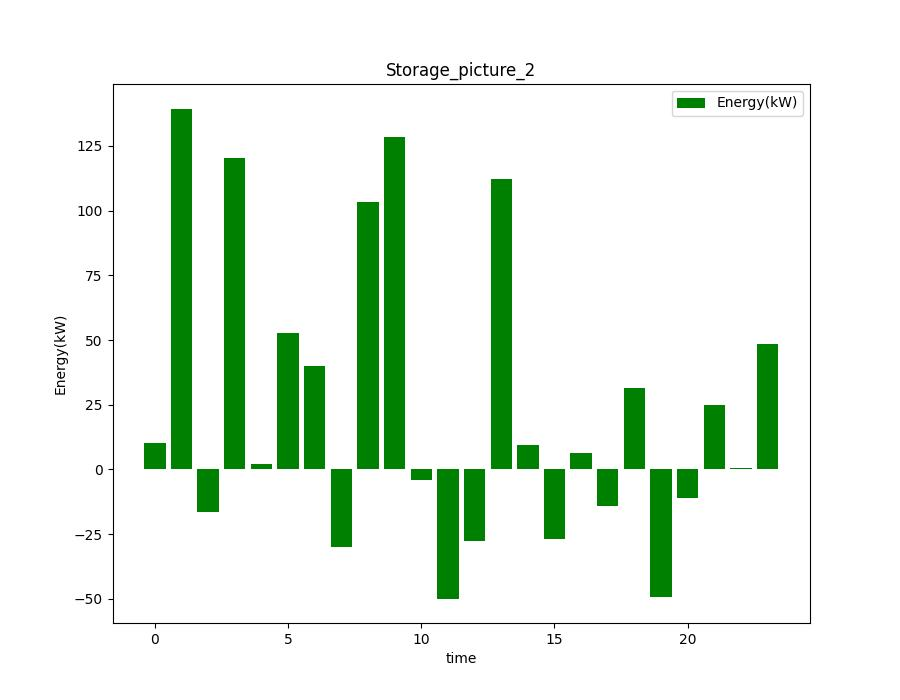
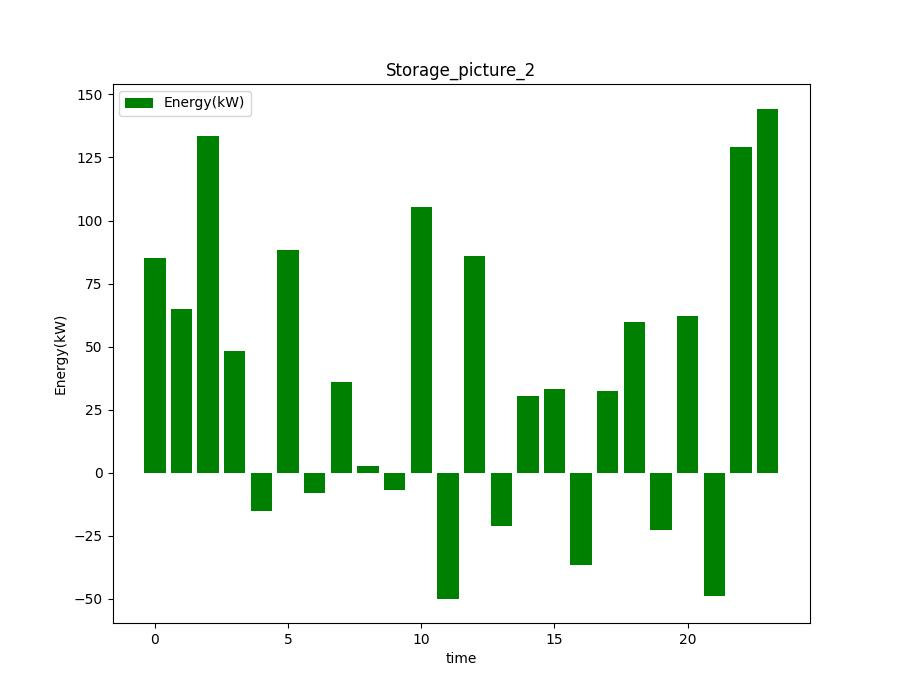
把运算数据的功能放到了云端

diff --git a/Calculation_On_Server/main.py b/Calculation_On_Server/main.py
@@ -1,32 +1,24 @@
 import os
-import sqlite3
 import time
+from datetime import datetime
+
 import numpy as np
 import pandas as pd
-import matplotlib as plt
 import mysql.connector
-
-raletive_paths = "APIs\\"
-
-
-def set_relative_path(path):
-    global raletive_paths
-    raletive_paths = path
 
 
 class EMS_data:
     path = None
 
-    def __init__(self, pop_size, chromosome_size, raletive_path=None):
-        global raletive_paths
-        # path = raletive_path
-        self.path = raletive_paths
+    def __init__(self, pop_size, chromosome_size):
+        self.path = os.path.dirname(__file__)
         # 初始化种群，需要输入种群大小pop_size和染色体大小chromosome_size
         self.pop_size = pop_size
         self.chromosome_size = chromosome_size
         self.population = np.round(np.random.rand(pop_size, chromosome_size)).astype(int)
         self.fit_value = np.zeros((pop_size, 1))
         self.data_init()
+
 
     def select_chromosome(self):
         # 进行自然选择，现在是fit_value争取最小
@@ -111,13 +103,11 @@ class EMS_data:
         return 0
 
     def data_init(self):
-        if(os.path.basename(os.getcwd()) == "APIs"):
-            self.path =  ""
-        print(self.path + "GA_data/load.txt")
-        self.Load = pd.read_csv(self.path + "GA_data/load.txt", delimiter="\t", header=None)  # Load是负荷
-        self.PV = pd.read_csv(self.path + "GA_data/PV.txt", delimiter="\t", header=None)  # PV是光伏发电
-        self.WT = pd.read_csv(self.path + "GA_data/WT.txt", delimiter="\t", header=None)  # WT是风力发电
-        self.price = pd.read_csv(self.path + "GA_data/电价.txt", delimiter="\t", header=None)  # price就是电价
+        log_info("运行在" + self.path + "/GA_data/load.txt")
+        self.Load = pd.read_csv(self.path + "/GA_data/load.txt", delimiter="\t", header=None)  # Load是负荷
+        self.PV = pd.read_csv(self.path + "/GA_data/PV.txt", delimiter="\t", header=None)  # PV是光伏发电
+        self.WT = pd.read_csv(self.path + "/GA_data/WT.txt", delimiter="\t", header=None)  # WT是风力发电
+        self.price = pd.read_csv(self.path + "/GA_data/电价.txt", delimiter="\t", header=None)  # price就是电价
         self.grid_P = pd.Series([0.0] * 24)  # 24小时电网交互功率
         self.grid_C = pd.Series([0.0] * 24)  # 电网交互费用
         self.bat_E = pd.Series([0.0] * 24)  # 蓄电池电量
@@ -154,13 +144,13 @@ class EMS_data:
 
 
 def GA_run_func(path=None):
-    print("data processing...")
+    log_info("data processing...")
     cross_rate = 0.8
     mutation_rate = 0.001
-    MAXGEN = 20
+    MAXGEN = 100
     pop_size = 100
     chromosome_size = 48 * 14  # 10位整数位 4位小数位
-    population = EMS_data(pop_size, chromosome_size, path)
+    population = EMS_data(pop_size, chromosome_size)
     x_array: np.ndarray = np.zeros(MAXGEN)
     ever_best_individiual, ever_best_fit = population.best()
 
@@ -178,18 +168,19 @@ def GA_run_func(path=None):
         best_individual = np.expand_dims(best_individual, 0)
         x = population.binary2decimal(best_individual)
         x_array[i] = population.function(x)
-        print(f"现在的大小是{x_array[i]}")
+        if i % 10 == 0:
+            log_info(f"现在的大小是{x_array[i]}")
+
         if (i == MAXGEN - 1):
             final = population.binary2decimal(ever_best_individiual)
-            print(f"本轮运算完成，最终的结果是{final}，它的计算值是{population.function(final)}")
+            log_info(f"本轮运算完成，最终的结果是{final}，它的计算值是{population.function(final)}")
             database_input(final, "BatteryChange")
             database_input(x_array, "x_values")
             return final
-        time.sleep(0.1)
+        time.sleep(0.01)
 
 def database_input(arr: np.ndarray, column_name: str):
-    print (arr)
-    print("data processing...")
+    log_info(f"{column_name} data uploading...")
     conn = mysql.connector.connect(
         host='112.124.43.86',
         user='EMS',
@@ -212,8 +203,35 @@ def database_input(arr: np.ndarray, column_name: str):
 
     conn.commit()
     conn.close()
-    print("储能数据发送到数据库！")
+    log_info("储能数据发送到数据库！")
+
+def log_info(info_message:str,type=0):
+    ##type:0为正常信息，1为报错信息
+    now = datetime.now()
+    cur_date = now.strftime("%Y-%m-%d")
+    cur_time = now.strftime("%Y-%m-%d %H:%M:%S")
+    file_name = f"logs/{cur_date}_log.log"
+    if type == 0:
+        info_message = cur_time + " | [INFO] | " + info_message
+    elif type == 1:
+        info_message = cur_time + " | [ERROR] | " + info_message
+
+    print(info_message)
+
+    if not os.path.exists("logs"):
+        os.mkdir("logs")
+    if not os.path.exists(file_name):
+        with open(file_name, 'w',encoding='utf-8') as f:
+            f.write(info_message + "\n")
+            f.close()
+    else:
+        with open(file_name,'a',encoding='utf-8') as f:
+            f.write(info_message + "\n")
+            f.close()
+
 
 
 if __name__ == "__main__":
-    GA_run_func()
+    while(True):
+        GA_run_func()
+        time.sleep(10)

diff --git a/Calculation_On_Server/README.md b/Calculation_On_Server/README.md
@@ -1,0 +1,1 @@
+# 遗传算法计算调度数据
